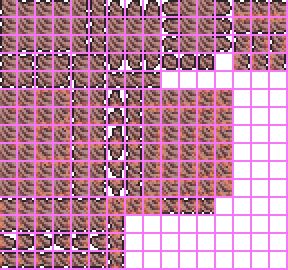
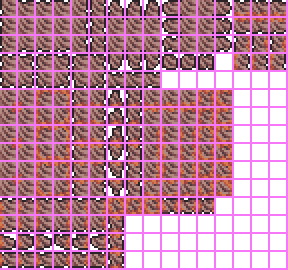
can't blow up pillars

diff --git a/Content/Tiles/DeepDesert/ReinforcedPegmatitePillar.cs b/Content/Tiles/DeepDesert/ReinforcedPegmatitePillar.cs
@@ -17,8 +17,13 @@ namespace ITD.Content.Tiles.DeepDesert
         public override void SetStaticDefaults()
         {
             Main.tileFrameImportant[Type] = true;
+            TileID.Sets.DoesntGetReplacedWithTileReplacement[Type] = true;
+            TileID.Sets.DoesntPlaceWithTileReplacement[Type] = true;
+            TileID.Sets.PreventsTileRemovalIfOnTopOfIt[Type] = true;
+            TileID.Sets.PreventsTileReplaceIfOnTopOfIt[Type] = true;
         }
         public override bool CanKillTile(int i, int j, ref bool blockDamaged) => false;
+        public override bool CanExplode(int i, int j) => false;
         public override bool KillSound(int i, int j, bool fail) => false;
         public override bool CreateDust(int i, int j, ref int type) => false;
         private static void FrameToPoint(Tile t, short x, short y)

diff --git a/Content/Items/DevTools/ReinforcedPegmatiteBrickWallItem.cs b/Content/Items/DevTools/ReinforcedPegmatiteBrickWallItem.cs
@@ -1,9 +1,4 @@
 using ITD.Content.Walls.DeepDesert;
-using System;
-using System.Collections.Generic;
-using System.Linq;
-using System.Text;
-using System.Threading.Tasks;
 using Terraria.ModLoader;
 
 namespace ITD.Content.Items.DevTools
